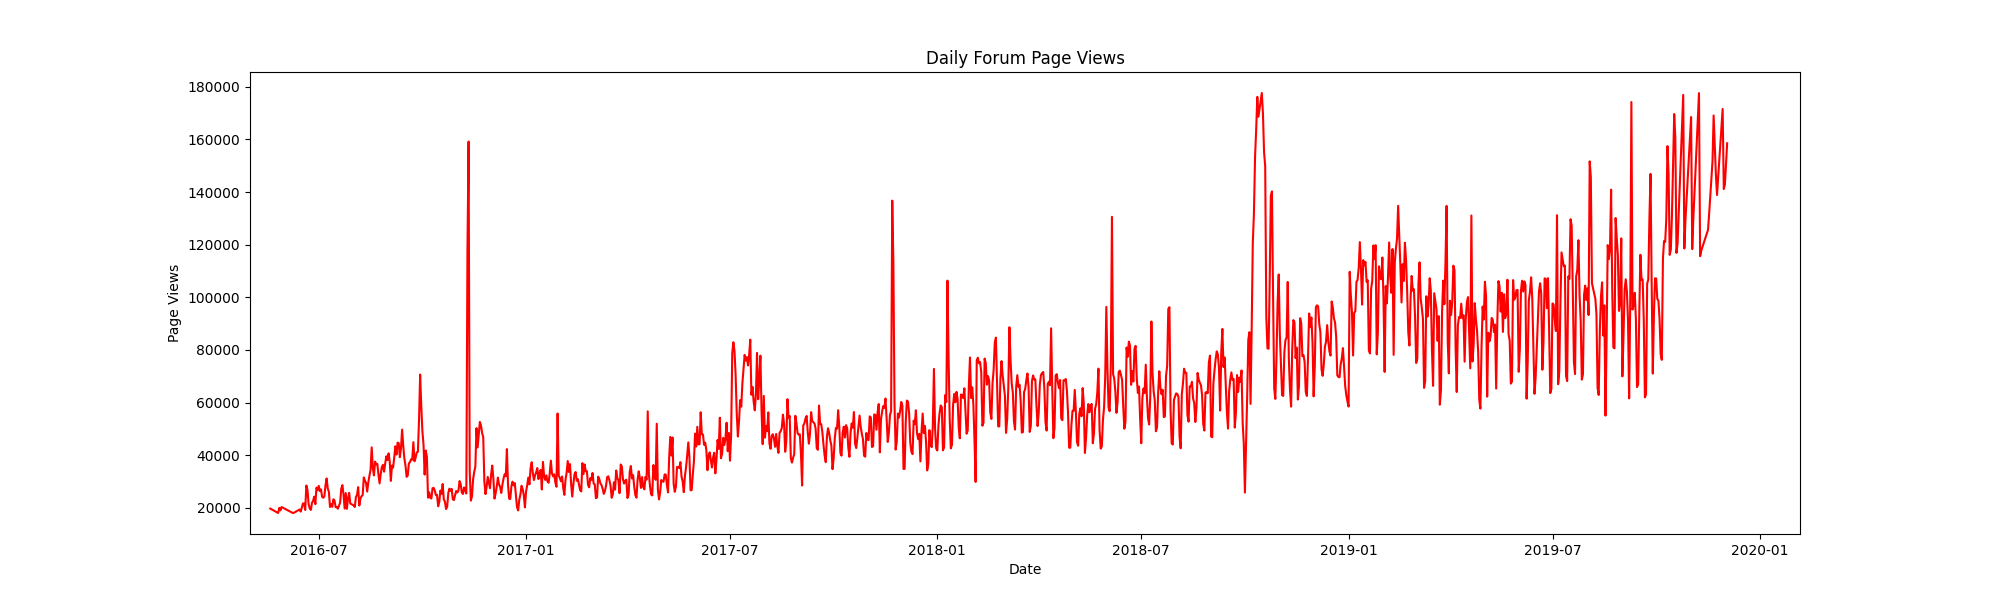
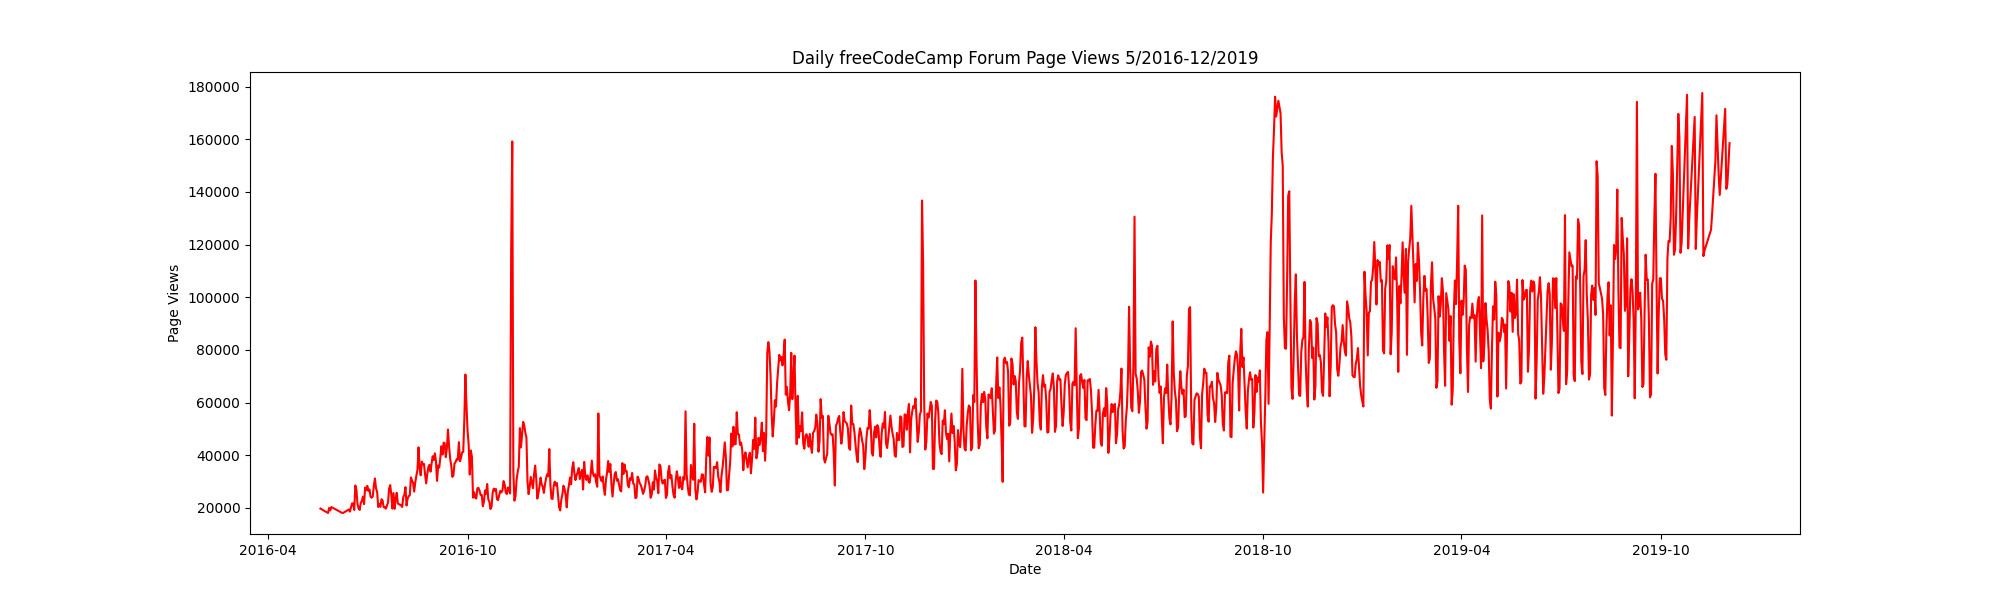
madjid

diff --git a/time_series_visualizer.py b/time_series_visualizer.py
@@ -10,110 +10,96 @@ import matplotlib.dates as mdates
 df = pd.read_csv('fcc-forum-pageviews.csv',date_parser = True, )
 df.set_index('date', inplace=True)
 # Clean data
-df = df.drop(df[df['value'] < df['value'].quantile(0.025)].index)
-df = df.drop(df[df['value'] > df['value'].quantile(0.975)].index)
+df = df[(df['value'] > df['value'].quantile(0.025)) & (df['value'] < df['value'].quantile(0.975))]
 
 
 def draw_line_plot():
     # Ensure the index is in datetime format
     df.index = pd.to_datetime(df.index)
 
-    # Create a figure and axis
+    # Create the plot
     fig, ax = plt.subplots(figsize=(20, 6))
-
-    # Plot 'value' over 'date'
     ax.plot(df.index, df['value'], color='red')
 
-    # Label the axes
+    # Set title and labels
+    ax.set_title('Daily freeCodeCamp Forum Page Views 5/2016-12/2019')  # Fix title
     ax.set_xlabel('Date')
     ax.set_ylabel('Page Views')
-    ax.set_title('Daily Forum Page Views')
 
-    # Set the x-axis locator to show every month
-    ax.xaxis.set_major_locator(mdates.MonthLocator(interval=6))  # 6-month interval
+    # Format x-axis
+    ax.xaxis.set_major_locator(mdates.MonthLocator(interval=6))
+    ax.xaxis.set_major_formatter(mdates.DateFormatter('%Y-%m'))
 
-    # Set the lower limit of the x-axis to the desired start date
-    start_date = pd.to_datetime('2016-05')  # Set your desired start date here
-    ax.set_xlim(left=start_date)  # Set the lower limit to the start_date
-
-    # Set the date format for the x-axis
-    ax.xaxis.set_major_formatter(mdates.DateFormatter('%Y-%m'))  # Custom date format (Year-Month)
-
-    # Explicitly set the x-axis as a date axis
-    ax.xaxis_date()
-
-    # Save image and return the figure (don't change this part)
+    # Save and return figure
     fig.savefig('line_plot.png')
     return fig
 
 
 def draw_bar_plot():
-    # Create copy of the data to avoid modifications to original
+    # Create a copy of the data
     df_bar = df.copy()
-    
-    # Add month and year columns
+
+    # Add year and month columns
     df_bar['year'] = df_bar.index.year
-    df_bar['month'] = df_bar.index.strftime('%B')  # Full month name
-    
-    # Calculate the mean page views for each year-month combination
+    df_bar['month'] = df_bar.index.month
+
+    # Group by year and month to calculate the mean
     df_bar = df_bar.groupby(['year', 'month'])['value'].mean().reset_index()
-    
-    # Ensure months are in correct order
-    month_order = ['January', 'February', 'March', 'April', 'May', 'June', 
-                  'July', 'August', 'September', 'October', 'November', 'December']
+
+    # Map month numbers to their names
+    month_order = ['January', 'February', 'March', 'April', 'May', 'June',
+                   'July', 'August', 'September', 'October', 'November', 'December']
+    df_bar['month'] = df_bar['month'].apply(lambda x: month_order[x-1])
+
+    # Ensure months are ordered correctly
     df_bar['month'] = pd.Categorical(df_bar['month'], categories=month_order, ordered=True)
-    
-    # Sort by year and month
-    df_bar = df_bar.sort_values(['year', 'month'])
-    
-    # Create the plot
-    fig, ax = plt.subplots(figsize=(7, 6))
-    
-    # Create the bar plot
-    sns.barplot(data=df_bar, 
-                x='year', 
-                y='value', 
-                hue='month',
-                palette='Set2',
-                ax=ax)
-    
-    # Customize the plot
+    df_bar = df_bar[df_bar['value'].notna()]
+
+    # Plot the data
+    fig, ax = plt.subplots(figsize=(10, 6))
+    sns.barplot(data=df_bar, x='year', y='value', hue='month', palette='Set2', ax=ax)
+
+    # Set labels
     ax.set_xlabel('Years')
     ax.set_ylabel('Average Page Views')
-    
-    # Rotate x-axis labels if needed
-    plt.xticks(rotation=0)
-    
-    # Adjust legend position and style
-    plt.legend(title='Months',
-              bbox_to_anchor=(1.05, 1),
-              loc='upper left',
-              borderaxespad=0.)
-    
-    # Adjust layout to prevent label cutoff
-    plt.tight_layout()
-    
-    # Save the plot
-    fig.savefig('bar_plot.png',
-                dpi=300,
-                bbox_inches='tight')
-    
-    return fig
 
+    # Adjust legend
+    plt.legend(title='Months', bbox_to_anchor=(1.05, 1), loc='upper left', borderaxespad=0.)
+
+    # Adjust layout to prevent cutoff
+    plt.tight_layout()
+
+    # Save and return the figure
+    fig.savefig('bar_plot.png')
+    return fig
     
 def draw_box_plot():
-    # Prepare data for box plots (this part is done!)
+    # Prepare data
     df_box = df.copy()
     df_box.reset_index(inplace=True)
-    df_box['year'] = [d.year for d in df_box.date]
-    df_box['month'] = [d.strftime('%b') for d in df_box.date]
+    df_box['year'] = df_box['date'].dt.year
+    df_box['month'] = df_box['date'].dt.strftime('%b')
 
-    # Draw box plots (using Seaborn)
+    # Draw box plots
+    fig, (ax1, ax2) = plt.subplots(1, 2, figsize=(20, 6))
 
+    # Year-wise Box Plot
+    sns.boxplot(data=df_box, x="year", y="value", ax=ax1, palette='husl')
+    ax1.set_title("Year-wise Box Plot (Trend)")
+    ax1.set_xlabel("Year")
+    ax1.set_ylabel("Page Views")  # Fix the ylabel
 
+    # Month-wise Box Plot
+    month_order = ["Jan", "Feb", "Mar", "Apr", "May", "Jun",
+                   "Jul", "Aug", "Sep", "Oct", "Nov", "Dec"]
+    sns.boxplot(data=df_box, x="month", y="value", order=month_order, ax=ax2, palette='husl')
+    ax2.set_title("Month-wise Box Plot (Seasonality)")
+    ax2.set_xlabel("Month")
+    ax2.set_ylabel("Page Views")  # Fix the ylabel
 
+    # Adjust layout
+    plt.tight_layout()
 
-
-    # Save image and return fig (don't change this part)
+    # Save and return figure
     fig.savefig('box_plot.png')
     return fig
